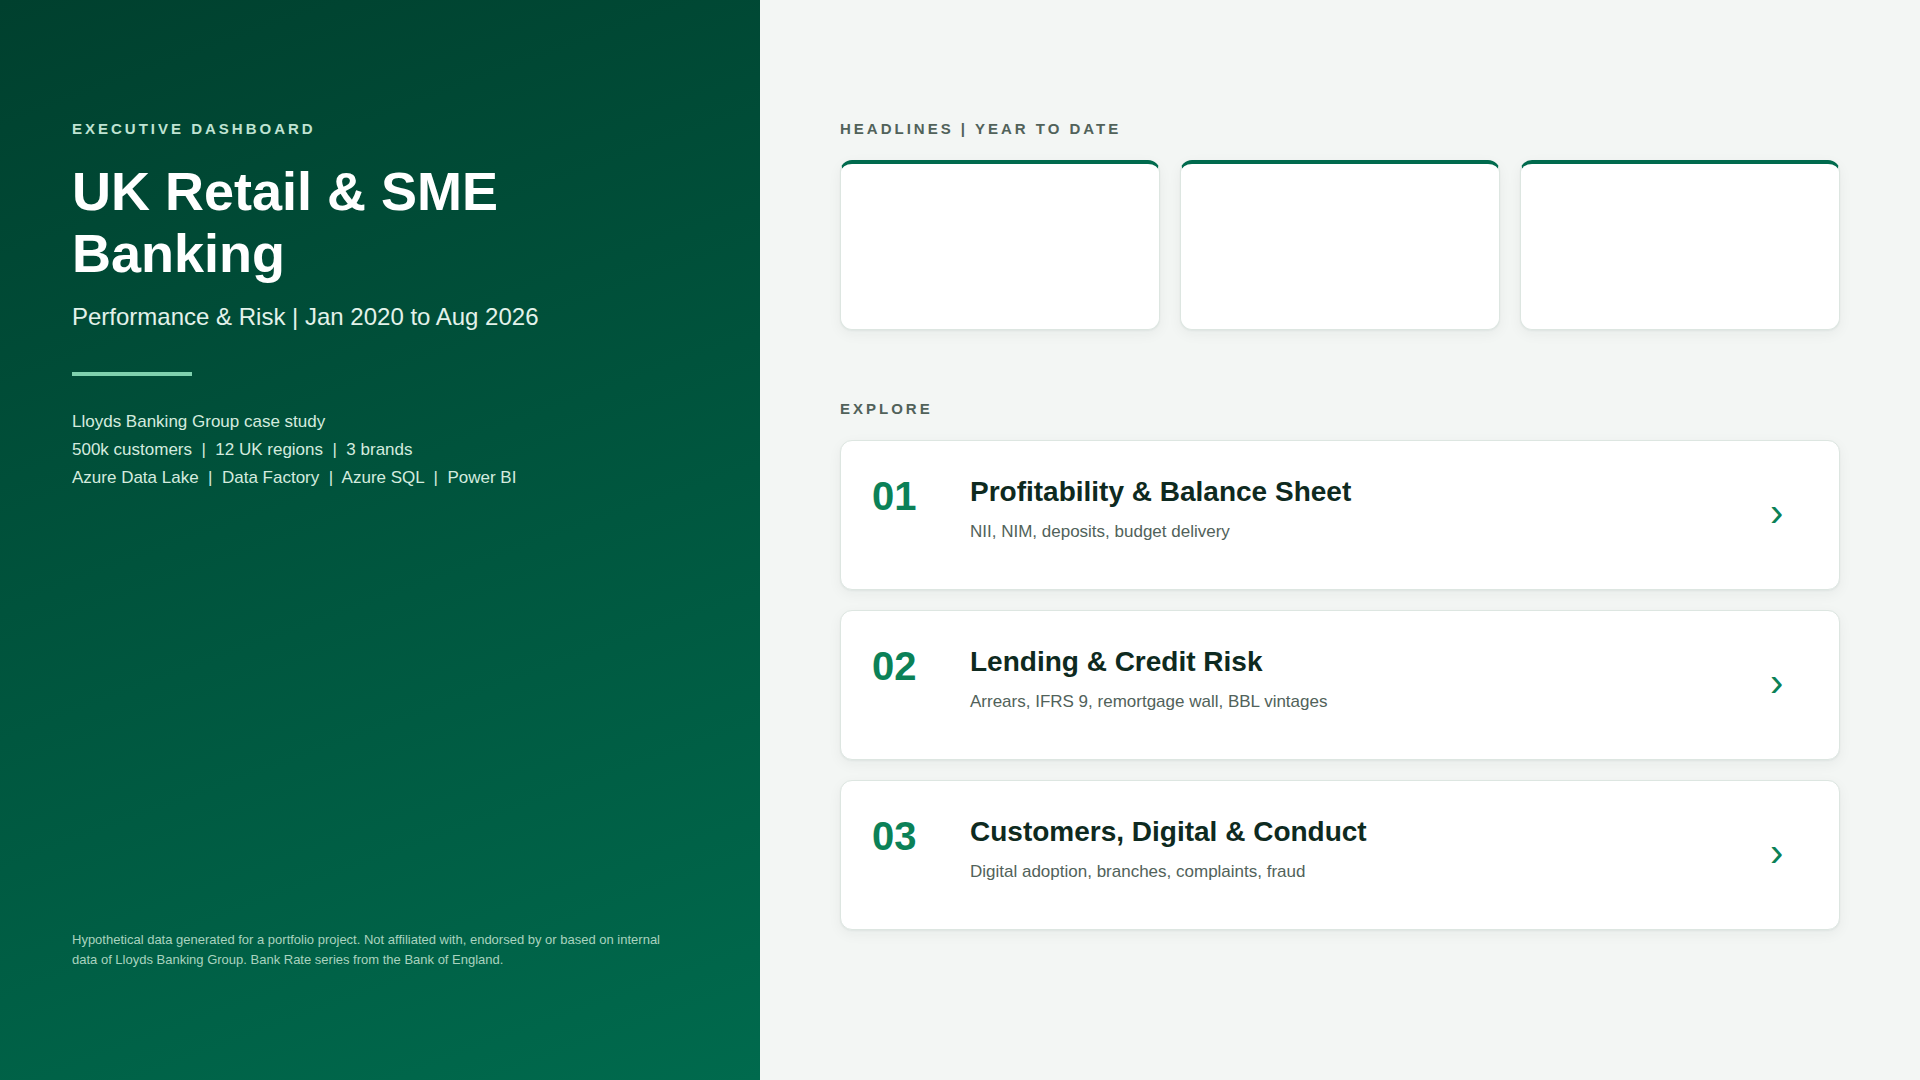
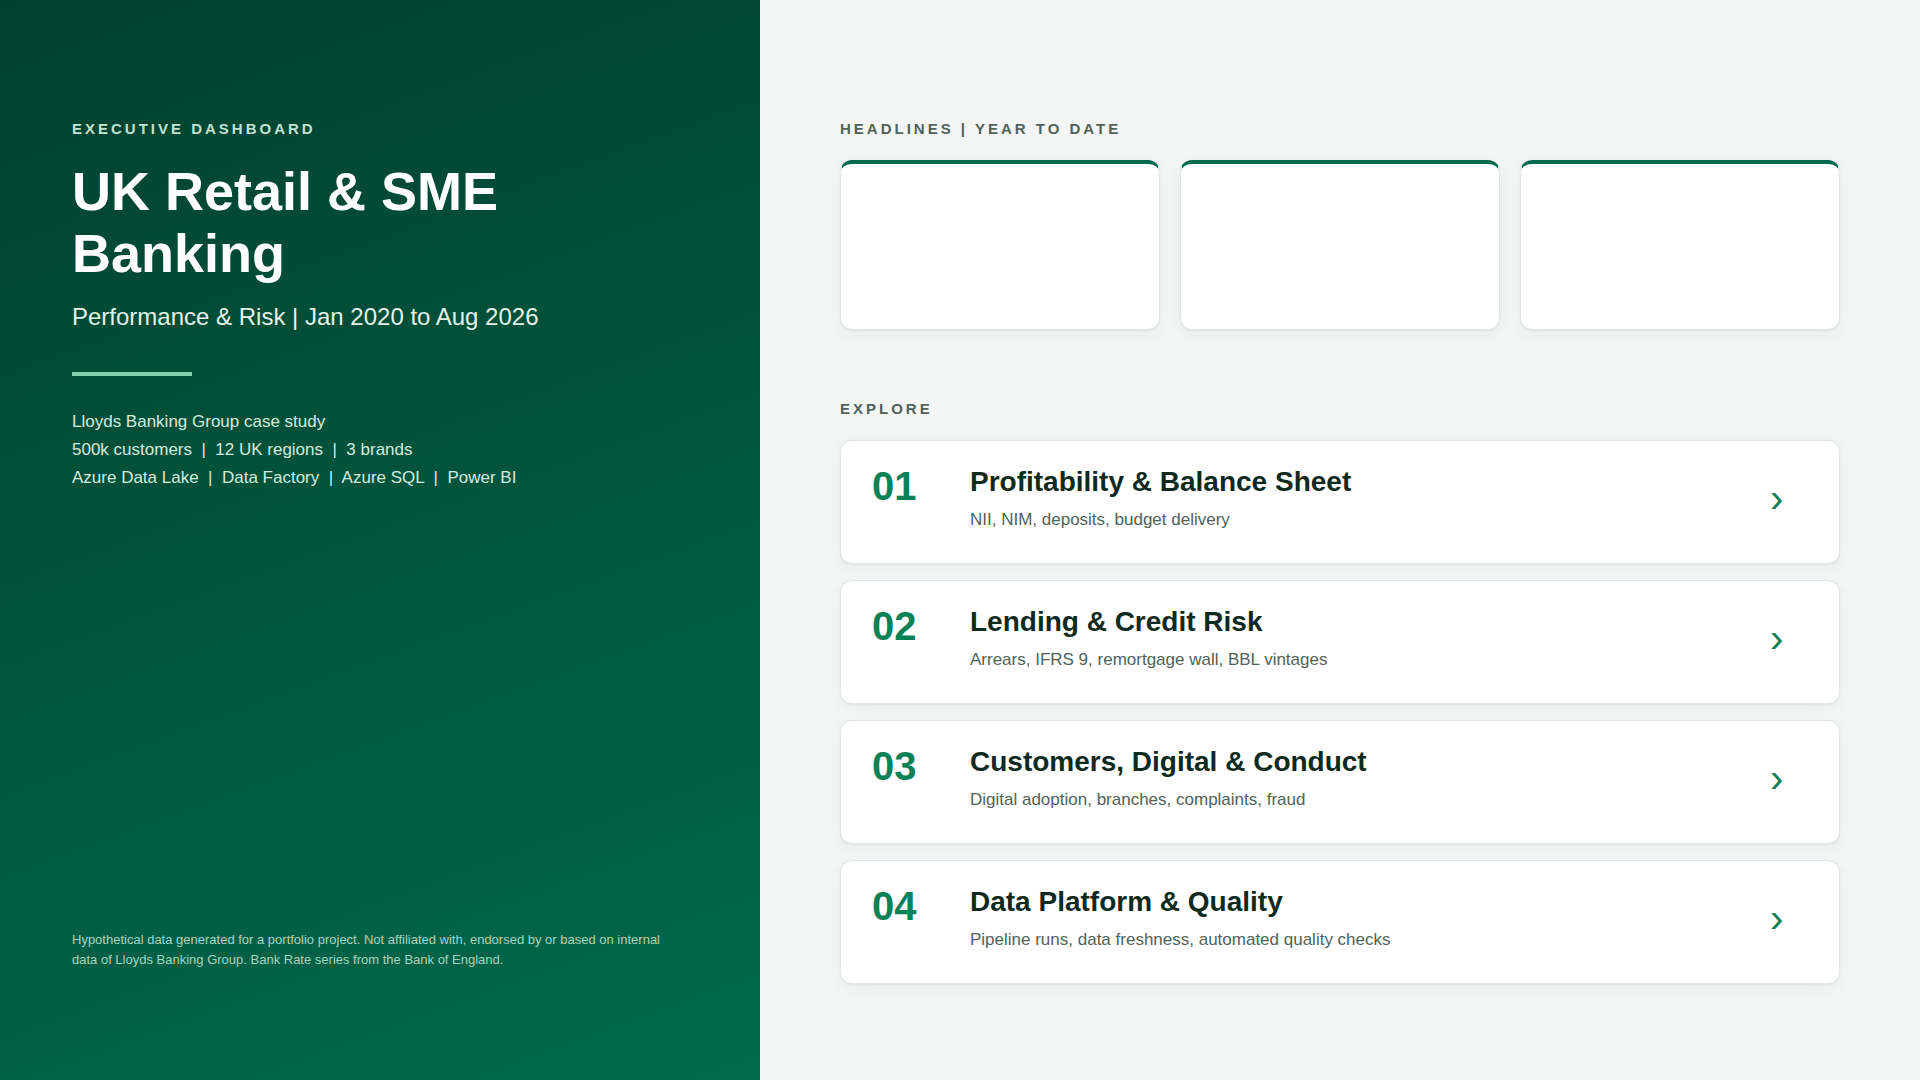
Add platform page, region drill-through and design assets

Changed region(s): [[0.4375, 0.4278, 0.9375, 0.8861], [0.4375, 0.4278, 0.4688, 0.4889], [0.9062, 0.7028, 0.9375, 0.7333]]

diff --git a/powerbi/design/build_backgrounds.py b/powerbi/design/build_backgrounds.py
@@ -51,6 +51,18 @@ PAGES = {
                  "Complaints per 1,000", "APP Scam Reimbursement"],
         "a": [("Branches vs digital users (index)", 912), ("Transaction channel mix", 912)],
         "b": [("Complaints by category", 600), ("APP scam losses vs reimbursed", 600), ("Branch network", 608)]},
+    "p4_platform": {
+        "title": "Data Platform & Quality",
+        "kpis": ["Rows in Warehouse", "Data As Of", "Pipeline Success Rate", "Last Load Duration",
+                 "Data Quality Issues Fixed", "Tables Monitored"],
+        "a": [("Architecture (image: docs/architecture.png)", 1112), ("Rows by layer and table", 712)],
+        "b": [("Pipeline runs (rows written, duration, status)", 912), ("Data quality checks and actions", 912)]},
+    "p5_region_drill": {
+        "title": "Region Deep Dive",
+        "kpis": ["Net Interest Income", "Net Interest Margin", "Customer Deposits", "Loan Book",
+                 "90+ Arrears Rate", "Active Customers"],
+        "a": [("NII vs budget | selected region", 912), ("Product scorecard (matrix)", 912)],
+        "b": [("IFRS 9 stage mix", 600), ("Digital active share vs UK", 600), ("Branches in region (map)", 608)]},
 }
 
 CSS = f"""
@@ -69,7 +81,8 @@ body{{width:{W}px;height:{H}px;background:{C['bg']};font-family:'Segoe UI',Helve
 
 
 def page_html(p):
-    parts = [f"<div class='header'><div class='bar'></div><div class='t1'>{p['title']}</div>"
+    parts = [] if True else []
+    parts += [f"<div class='header'><div class='bar'></div><div class='t1'>{p['title']}</div>"
              f"<div class='t2'>Lloyds Banking Group case study &nbsp;|&nbsp; UK Retail &amp; SME Banking &nbsp;|&nbsp; "
              f"hypothetical data</div></div>"]
     x, y, w, h = SLICER
@@ -86,7 +99,8 @@ def page_html(p):
 def cover_html():
     nav = [("01", "Profitability & Balance Sheet", "NII, NIM, deposits, budget delivery"),
            ("02", "Lending & Credit Risk", "Arrears, IFRS 9, remortgage wall, BBL vintages"),
-           ("03", "Customers, Digital & Conduct", "Digital adoption, branches, complaints, fraud")]
+           ("03", "Customers, Digital & Conduct", "Digital adoption, branches, complaints, fraud"),
+           ("04", "Data Platform & Quality", "Pipeline runs, data freshness, automated quality checks")]
     left_w = 760
     parts = [f"""
 <div class='abs' style='left:0;top:0;width:{left_w}px;height:{H}px;
@@ -107,12 +121,12 @@ internal data of Lloyds Banking Group. Bank Rate series from the Bank of England
         parts.append(f"<div class='panel kpi' style='left:{kx + i * (kw + kg)}px;top:160px;width:{kw}px;height:170px'></div>")
     parts.append(f"<div class='abs' style='left:{left_w + 80}px;top:400px;font-size:15px;letter-spacing:3px;color:{C['ink2']};font-weight:600'>EXPLORE</div>")
     for i, (n, t, d) in enumerate(nav):
-        y = 440 + i * 170
-        parts.append(f"""<div class='panel' style='left:{left_w + 80}px;top:{y}px;width:1000px;height:150px'></div>
-<div class='abs' style='left:{left_w + 112}px;top:{y + 34}px;font-size:40px;font-weight:700;color:{C['accent']}'>{n}</div>
-<div class='abs' style='left:{left_w + 210}px;top:{y + 36}px;font-size:28px;font-weight:600;color:{C['ink']}'>{t}</div>
-<div class='abs' style='left:{left_w + 210}px;top:{y + 82}px;font-size:17px;color:{C['ink2']}'>{d}</div>
-<div class='abs' style='left:{left_w + 1010}px;top:{y + 50}px;font-size:40px;color:{C['accent']}'>&#8250;</div>""")
+        y = 440 + i * 140
+        parts.append(f"""<div class='panel' style='left:{left_w + 80}px;top:{y}px;width:1000px;height:124px'></div>
+<div class='abs' style='left:{left_w + 112}px;top:{y + 24}px;font-size:40px;font-weight:700;color:{C['accent']}'>{n}</div>
+<div class='abs' style='left:{left_w + 210}px;top:{y + 26}px;font-size:28px;font-weight:600;color:{C['ink']}'>{t}</div>
+<div class='abs' style='left:{left_w + 210}px;top:{y + 70}px;font-size:17px;color:{C['ink2']}'>{d}</div>
+<div class='abs' style='left:{left_w + 1010}px;top:{y + 36}px;font-size:40px;color:{C['accent']}'>&#8250;</div>""")
     return f"<html><head><style>{CSS}</style></head><body>{''.join(parts)}</body></html>"
 
 
@@ -127,8 +141,8 @@ def main():
         spec += ["## Cover", "", "| Visual | X | Y | W | H |", "|---|---|---|---|---|"]
         for i in range(3):
             spec.append(f"| Hero KPI {i + 1} (card) | {840 + i * 340} | 160 | 320 | 170 |")
-        for i in range(3):
-            spec.append(f"| Nav button {i + 1} (blank button, transparent) | 840 | {440 + i * 170} | 1000 | 150 |")
+        for i in range(4):
+            spec.append(f"| Nav button {i + 1} (blank button, transparent) | 840 | {440 + i * 140} | 1000 | 124 |")
         spec.append("")
         for key, p in PAGES.items():
             pg.set_content(page_html(p)); pg.screenshot(path=str(OUT / f"bg_{key}.png"))

diff --git a/powerbi/design/layout_spec.md b/powerbi/design/layout_spec.md
@@ -10,9 +10,10 @@ Canvas background > Image > Fit, transparency 0%. For each visual: Format > Gene
 | Hero KPI 1 (card) | 840 | 160 | 320 | 170 |
 | Hero KPI 2 (card) | 1180 | 160 | 320 | 170 |
 | Hero KPI 3 (card) | 1520 | 160 | 320 | 170 |
-| Nav button 1 (blank button, transparent) | 840 | 440 | 1000 | 150 |
-| Nav button 2 (blank button, transparent) | 840 | 610 | 1000 | 150 |
-| Nav button 3 (blank button, transparent) | 840 | 780 | 1000 | 150 |
+| Nav button 1 (blank button, transparent) | 840 | 440 | 1000 | 124 |
+| Nav button 2 (blank button, transparent) | 840 | 580 | 1000 | 124 |
+| Nav button 3 (blank button, transparent) | 840 | 720 | 1000 | 124 |
+| Nav button 4 (blank button, transparent) | 840 | 860 | 1000 | 124 |
 
 ## Profitability & Balance Sheet
 
@@ -65,16 +66,58 @@ Canvas background > Image > Fit, transparency 0%. For each visual: Format > Gene
 | APP scam losses vs reimbursed | 656 | 692 | 600 | 348 |
 | Branch network | 1272 | 692 | 608 | 348 |
 
-## Header navigation (pages 1-3)
+## Data Platform & Quality
+
+| Visual | X | Y | W | H |
+|---|---|---|---|---|
+| Slicer strip (4-5 slicers inside) | 40 | 104 | 1840 | 56 |
+| KPI Rows in Warehouse | 40 | 176 | 293 | 128 |
+| KPI Data As Of | 349 | 176 | 293 | 128 |
+| KPI Pipeline Success Rate | 659 | 176 | 293 | 128 |
+| KPI Last Load Duration | 968 | 176 | 293 | 128 |
+| KPI Data Quality Issues Fixed | 1277 | 176 | 293 | 128 |
+| KPI Tables Monitored | 1587 | 176 | 293 | 128 |
+| Architecture (image: docs/architecture.png) | 40 | 320 | 1112 | 356 |
+| Rows by layer and table | 1168 | 320 | 712 | 356 |
+| Pipeline runs (rows written, duration, status) | 40 | 692 | 912 | 348 |
+| Data quality checks and actions | 968 | 692 | 912 | 348 |
+
+## Region Deep Dive
+
+| Visual | X | Y | W | H |
+|---|---|---|---|---|
+| Slicer strip (4-5 slicers inside) | 40 | 104 | 1840 | 56 |
+| KPI Net Interest Income | 40 | 176 | 293 | 128 |
+| KPI Net Interest Margin | 349 | 176 | 293 | 128 |
+| KPI Customer Deposits | 659 | 176 | 293 | 128 |
+| KPI Loan Book | 968 | 176 | 293 | 128 |
+| KPI 90+ Arrears Rate | 1277 | 176 | 293 | 128 |
+| KPI Active Customers | 1587 | 176 | 293 | 128 |
+| NII vs budget | selected region | 40 | 320 | 912 | 356 |
+| Product scorecard (matrix) | 968 | 320 | 912 | 356 |
+| IFRS 9 stage mix | 40 | 692 | 600 | 348 |
+| Digital active share vs UK | 656 | 692 | 600 | 348 |
+| Branches in region (map) | 1272 | 692 | 608 | 348 |
+
+## Header navigation (pages 1-4)
 
 | Button | X | Y | W | H |
 |---|---|---|---|---|
-| Home (Cover) | 1160 | 22 | 160 | 44 |
-| Profitability | 1336 | 22 | 170 | 44 |
-| Credit Risk | 1522 | 22 | 170 | 44 |
-| Customers | 1708 | 22 | 172 | 44 |
+| Home | 1080 | 22 | 152 | 44 |
+| Profitability | 1242 | 22 | 152 | 44 |
+| Credit Risk | 1404 | 22 | 152 | 44 |
+| Customers | 1566 | 22 | 152 | 44 |
+| Data Platform | 1728 | 22 | 152 | 44 |
 
-Button style: fill #FFFFFF, border 1px #DDE6E1, radius 8, text Segoe UI 12 #51625A; selected page: fill #006A4D, text #FFFFFF. Action: Page navigation.
+Button style: fill #FFFFFF, border 1px #DDE6E1, radius 8, text Segoe UI 12 #51625A; current page: fill #006A4D, text #FFFFFF.
+Action: Page navigation.
+
+## Region Deep Dive (drill-through, hidden page)
+
+- Page type: Drill through | Drill-through field: dim_region[RegionName] | "Keep all filters" on | hide the page.
+- Back button: X 1728, Y 22, W 152, H 44 (Power BI Back button, same style).
+- Dynamic title: card or text box at X 440, Y 26 with measure `Selected Region Title` (e.g. "North East | Regional Director: ...").
+- Users right-click a region in any visual (e.g. Budget delivery by region) > Drill through > Region Deep Dive.
 
 ## Colour rules
 
@@ -82,4 +125,4 @@ Button style: fill #FFFFFF, border 1px #DDE6E1, radius 8, text Segoe UI 12 #5162
 - Variance / status only: good #188038, warning #E8A317, bad #C5221F, always with an arrow or text label
 - Categorical order (never cycled): #0B8157, #2E6FD8, #C97A00, #8C5BB5, #D1495B (validated for colour blindness)
 - Heatmaps: single green ramp #EAF4EF > #6FB597 > #00402E
-- No dual-axis charts: NIM and Bank Rate share one % axis
+- No dual-axis charts: NIM and Bank Rate share one % axis; branches vs digital users indexed (2020 = 100)
